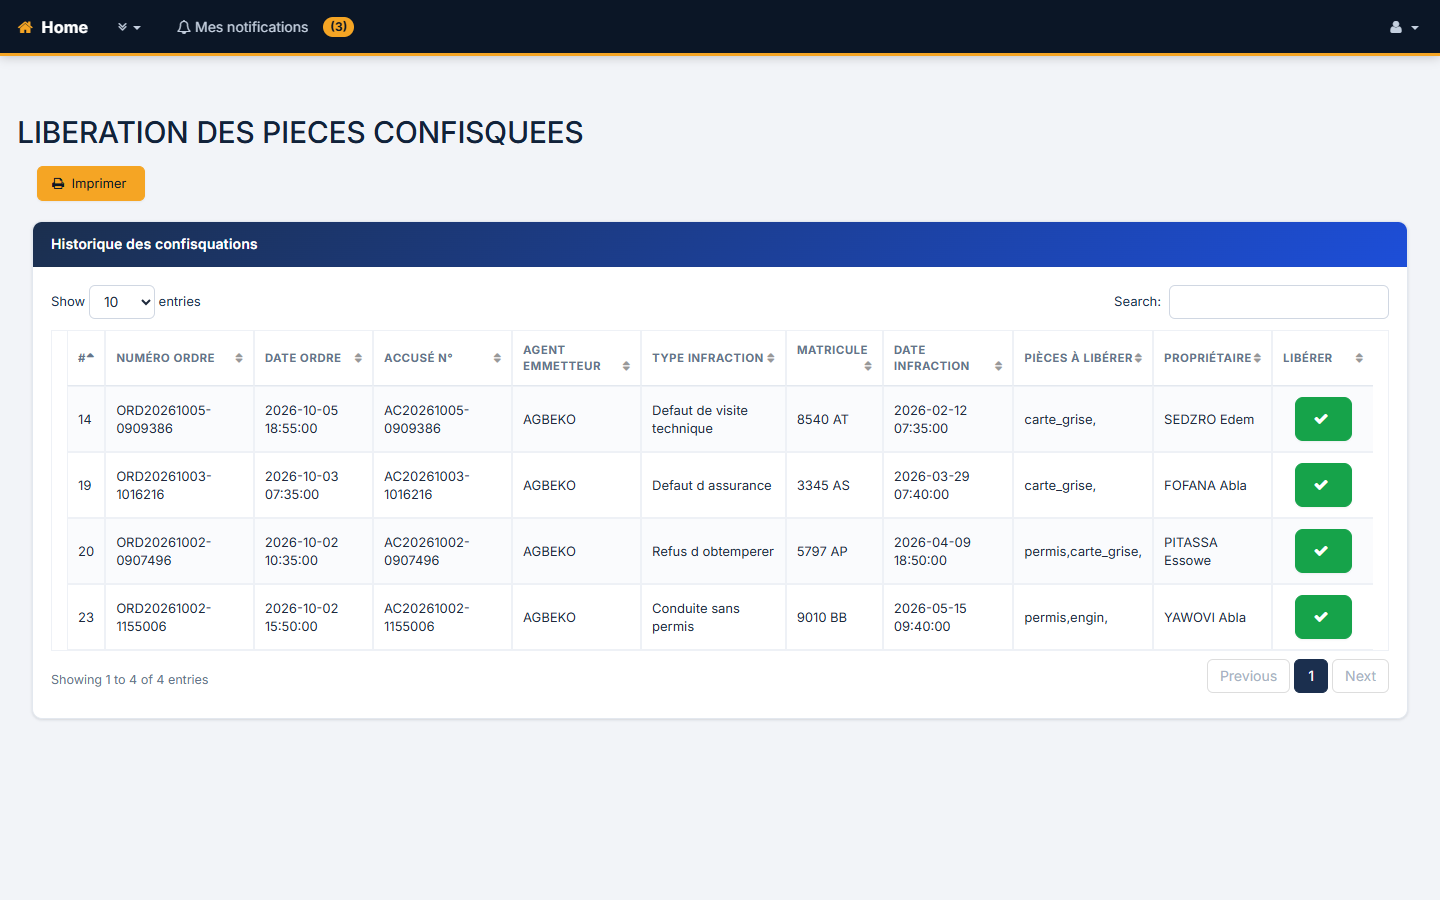
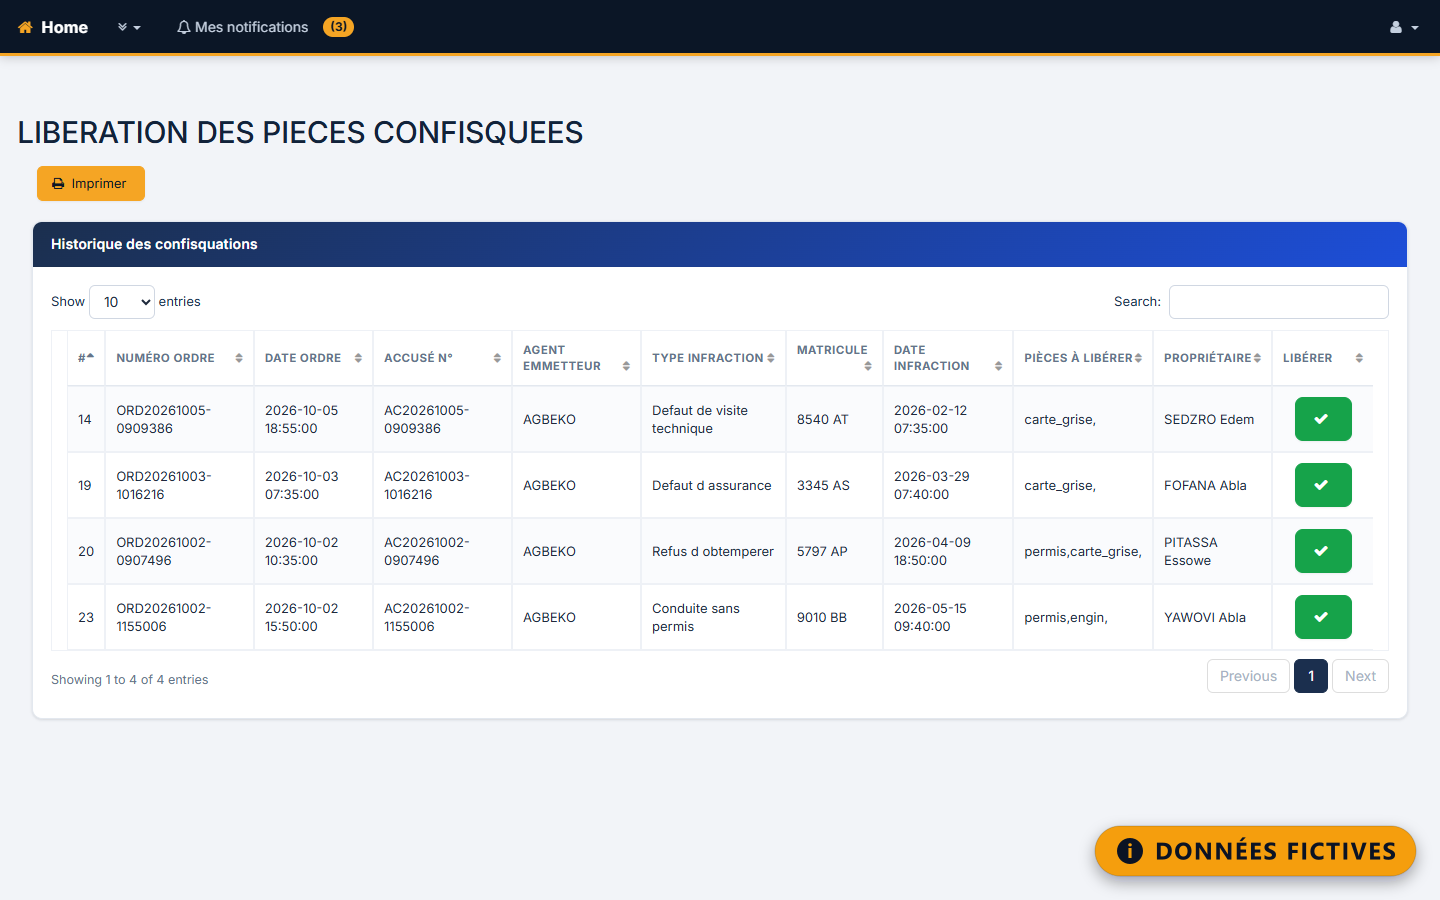
Signale les données fictives de Flash Contrôle Routier
Chaque capture porte désormais une étiquette « Données fictives » et le
projet affiche un badge et une mention dédiés, à la place du badge
Anonymisé. Le script scripts/label-flash-controle-routier.mjs repart des
originaux non versionnés pour pouvoir être relancé.

Changed region(s): [[0.75, 0.9022, 1.0, 0.9956]]

diff --git a/src/app/[locale]/projets/[slug]/page.tsx b/src/app/[locale]/projets/[slug]/page.tsx
@@ -2,7 +2,7 @@ import type { Metadata } from "next";
 import Image from "next/image";
 import Link from "next/link";
 import { notFound } from "next/navigation";
-import { ArrowLeft, ArrowRight, ExternalLink, LockKeyhole, Mail } from "lucide-react";
+import { ArrowLeft, ArrowRight, ExternalLink, FlaskConical, LockKeyhole, Mail } from "lucide-react";
 import { Footer } from "@/components/layout/footer";
 import { Header } from "@/components/layout/header";
 import { BrandIcon } from "@/components/ui/brand-icon";
@@ -64,6 +64,7 @@ export default async function ProjectPage({ params }: PageProps<"/[locale]/proje
               <div className="flex flex-wrap items-center gap-2">
                 <p className="eyebrow">{project.category[locale]}</p>
                 {project.confidential ? <span className="badge"><LockKeyhole size={12} aria-hidden="true" />{fr ? "Anonymisé" : "Anonymized"}</span> : null}
+                {project.fictionalData ? <span className="badge"><FlaskConical size={12} aria-hidden="true" />{fr ? "Données fictives" : "Fictional data"}</span> : null}
                 {!isPending(project.status[locale]) ? <span className="badge">{project.status[locale]}</span> : null}
               </div>
               <h1 className="section-title mt-4">{project.title[locale]}</h1>
@@ -121,6 +122,7 @@ export default async function ProjectPage({ params }: PageProps<"/[locale]/proje
             <section aria-labelledby="interfaces" className="mt-16">
               <h2 id="interfaces" className="text-2xl font-extrabold">{fr ? "Interfaces" : "Interfaces"}</h2>
               {project.confidential ? <p className="muted mt-2 text-sm">{fr ? "Captures anonymisées : les données sensibles ont été masquées." : "Anonymized screenshots: sensitive data has been masked."}</p> : null}
+              {project.fictionalData ? <p className="muted mt-2 text-sm">{fr ? "Captures réalisées avec des données fictives générées pour la démonstration : aucune personne ni aucun véhicule réel." : "Screenshots taken with fictional data generated for the demo: no real people or vehicles."}</p> : null}
               <div className="mt-6"><ProjectGallery project={project} locale={locale} /></div>
             </section>
           ) : null}

diff --git a/src/components/ui/project-card.tsx b/src/components/ui/project-card.tsx
@@ -1,5 +1,5 @@
 import { BrandIcon } from "@/components/ui/brand-icon";
-import { ArrowRight, ExternalLink, LockKeyhole } from "lucide-react";
+import { ArrowRight, ExternalLink, FlaskConical, LockKeyhole } from "lucide-react";
 import Image from "next/image";
 import Link from "next/link";
 import { isPending, isPlaceholder } from "@/data/site";
@@ -59,6 +59,12 @@ export function ProjectCard({ project, locale }: { project: Project; locale: Loc
             <span className="badge">
               <LockKeyhole size={12} aria-hidden="true" />
               {fr ? "Anonymisé" : "Anonymized"}
+            </span>
+          ) : null}
+          {project.fictionalData ? (
+            <span className="badge">
+              <FlaskConical size={12} aria-hidden="true" />
+              {fr ? "Données fictives" : "Fictional data"}
             </span>
           ) : null}
         </div>

diff --git a/src/data/projects.ts b/src/data/projects.ts
@@ -633,11 +633,11 @@ export const projects: Project[] = [
     projectUrl: "URL_DEMO_GARAGE_A_REMPLACER",
     githubUrl: "URL_GITHUB_GARAGE_A_REMPLACER",
     status: {
-      fr: "Projets confidentiels anonymisés",
-      en: "Anonymized confidential projects",
+      fr: "Applications de gestion sur mesure",
+      en: "Custom management applications",
     },
     featured: true,
-    confidential: true,
+    fictionalData: true,
   },
   {
     slug: "initiative-avenir-basketball",

diff --git a/src/types/content.ts b/src/types/content.ts
@@ -26,6 +26,8 @@ export interface Project {
   status: LocalizedText;
   featured: boolean;
   confidential?: boolean;
+  /** Screenshots show generated demo records, not real people. */
+  fictionalData?: boolean;
   aiAssistance?: LocalizedText;
 }
 
